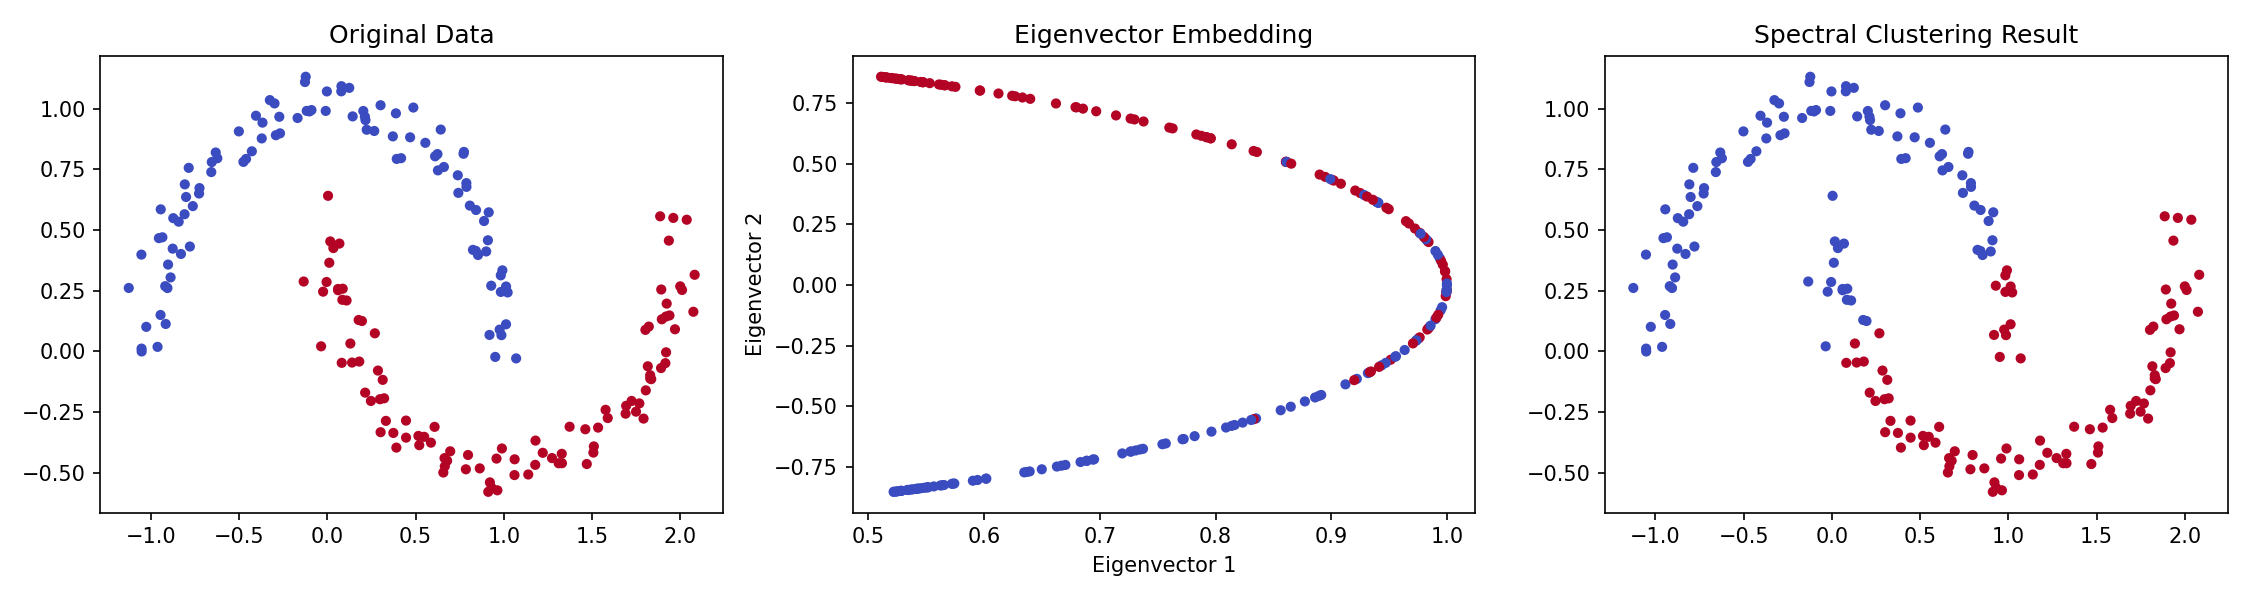
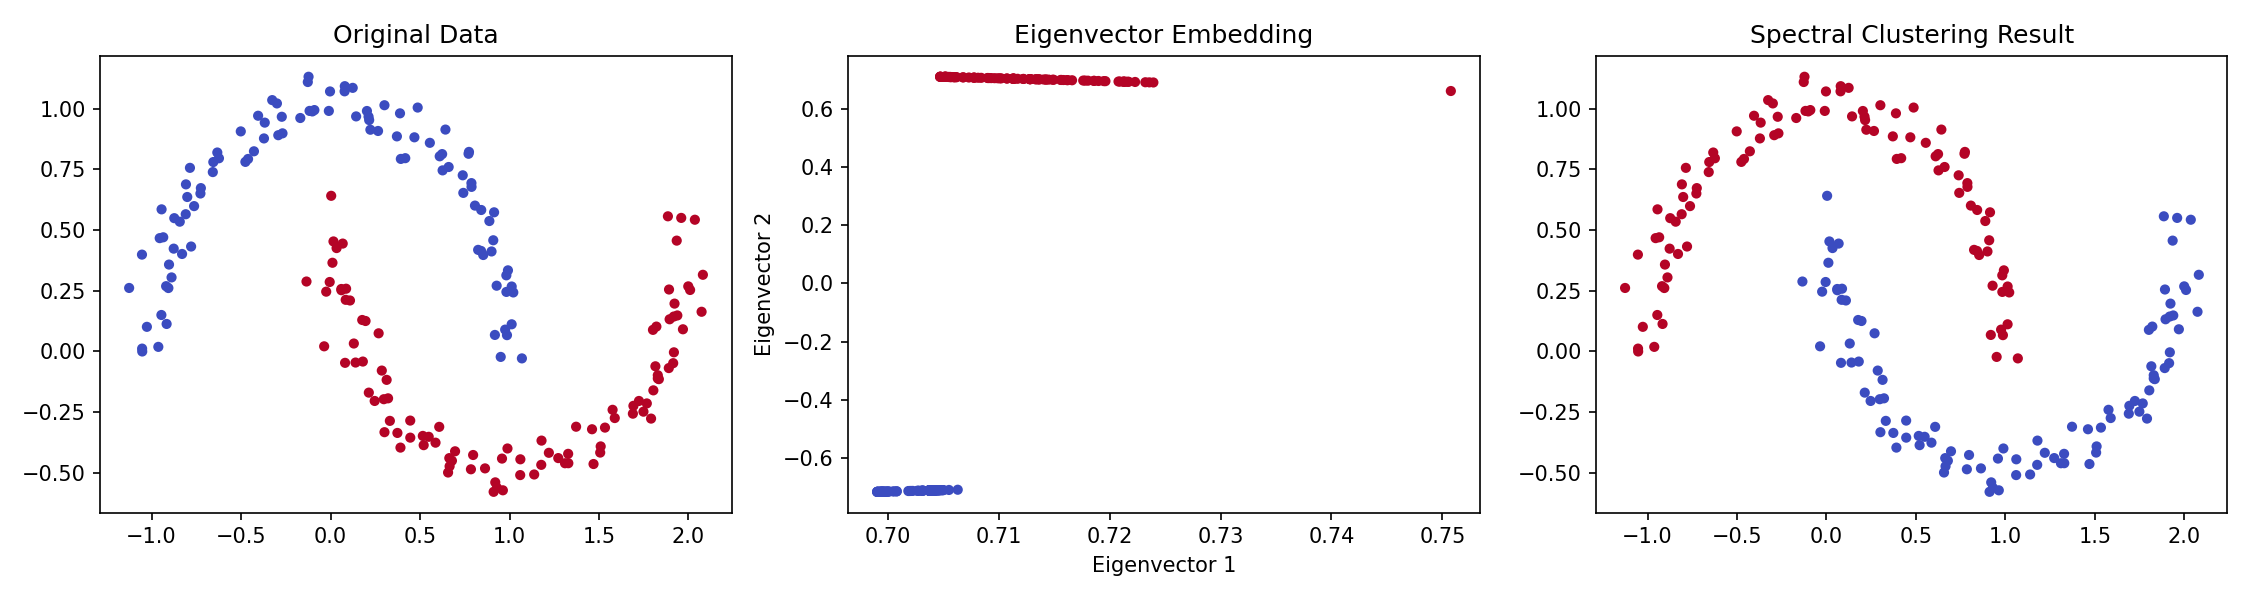
[spectral-clustering-from-scratch] homework phase 4 VERIFY complete — sigma 0.3→0.1 for 100% accuracy, output logs added

diff --git a/spectral-clustering-from-scratch/02_graph_laplacian.py b/spectral-clustering-from-scratch/02_graph_laplacian.py
@@ -4,7 +4,7 @@ from sklearn.datasets import make_moons
 
 X, y_true = make_moons(n_samples=200, noise=0.06, random_state=42)
 
-def rbf_similarity(X, sigma=0.3):
+def rbf_similarity(X, sigma=0.1):
     """Fully connected similarity matrix with RBF kernel."""
     n = X.shape[0]
     dists_sq = np.sum((X[:, None] - X[None, :]) ** 2, axis=2)
@@ -25,7 +25,7 @@ def compute_laplacian(W, normalized=False):
 
 if __name__ == "__main__":
     # Build Laplacian and examine its spectrum
-    W = rbf_similarity(X, sigma=0.3)
+    W = rbf_similarity(X, sigma=0.1)
     L = compute_laplacian(W, normalized=False)
     eigenvalues, eigenvectors = np.linalg.eigh(L)
 

diff --git a/spectral-clustering-from-scratch/03_spectral_clustering.py b/spectral-clustering-from-scratch/03_spectral_clustering.py
@@ -43,7 +43,7 @@ def spectral_clustering(X, k=2, sigma=0.3, normalized=True):
 
 if __name__ == "__main__":
     # Run on two moons
-    labels, evals, embedding = spectral_clustering(X, k=2, sigma=0.3)
+    labels, evals, embedding = spectral_clustering(X, k=2, sigma=0.1)
     accuracy = max(np.mean(labels == y_true), np.mean(labels != y_true))
     print(f"Spectral clustering accuracy: {accuracy:.1%}")
 

diff --git a/spectral-clustering-from-scratch/04_visualize_pipeline.py b/spectral-clustering-from-scratch/04_visualize_pipeline.py
@@ -32,7 +32,7 @@ def spectral_clustering(X, k=2, sigma=0.3, normalized=True):
     return labels, eigenvalues, U_normalized
 
 if __name__ == "__main__":
-    labels, evals, embedding = spectral_clustering(X, k=2, sigma=0.3)
+    labels, evals, embedding = spectral_clustering(X, k=2, sigma=0.1)
 
     fig, axes = plt.subplots(1, 3, figsize=(15, 4))
 

diff --git a/spectral-clustering-from-scratch/05_graph_cuts.py b/spectral-clustering-from-scratch/05_graph_cuts.py
@@ -50,7 +50,7 @@ def graph_cut_values(W, labels):
     return cut, ratiocut, ncut
 
 if __name__ == "__main__":
-    labels, _, _ = spectral_clustering(X, k=2, sigma=0.3)
+    labels, _, _ = spectral_clustering(X, k=2, sigma=0.1)
     W = rbf_similarity(X, sigma=0.3)
 
     # Spectral clustering partition
